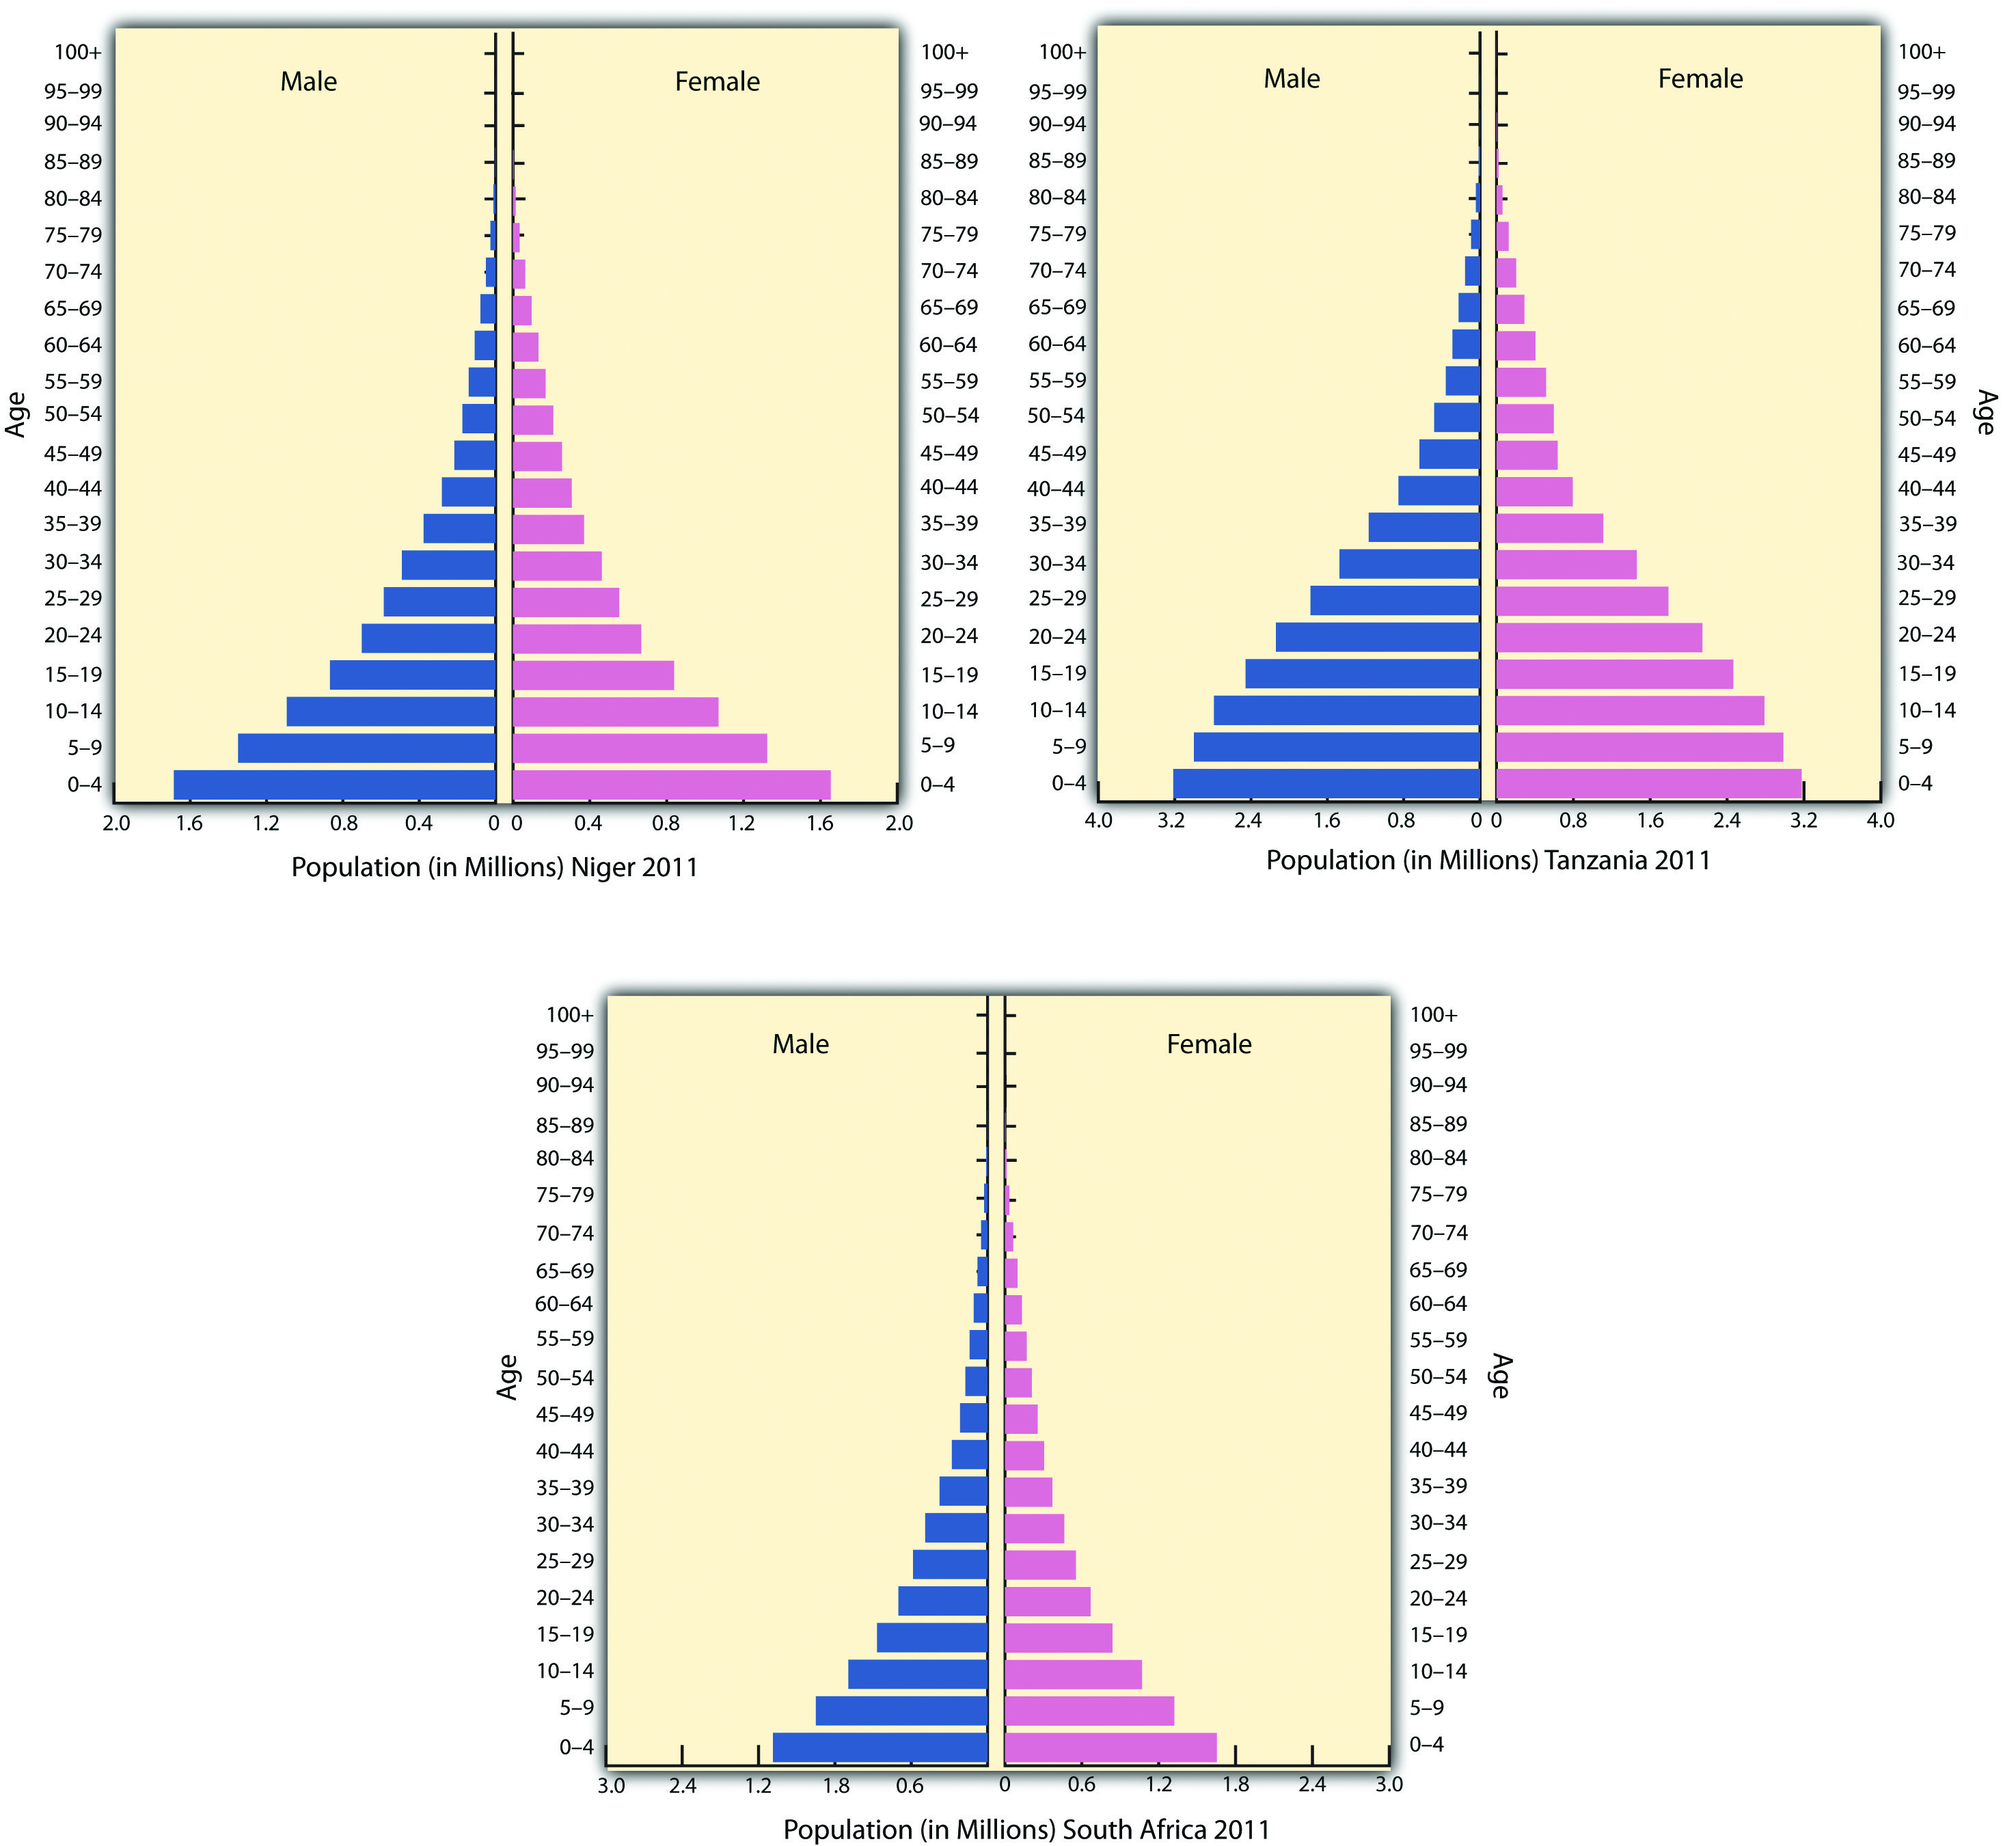
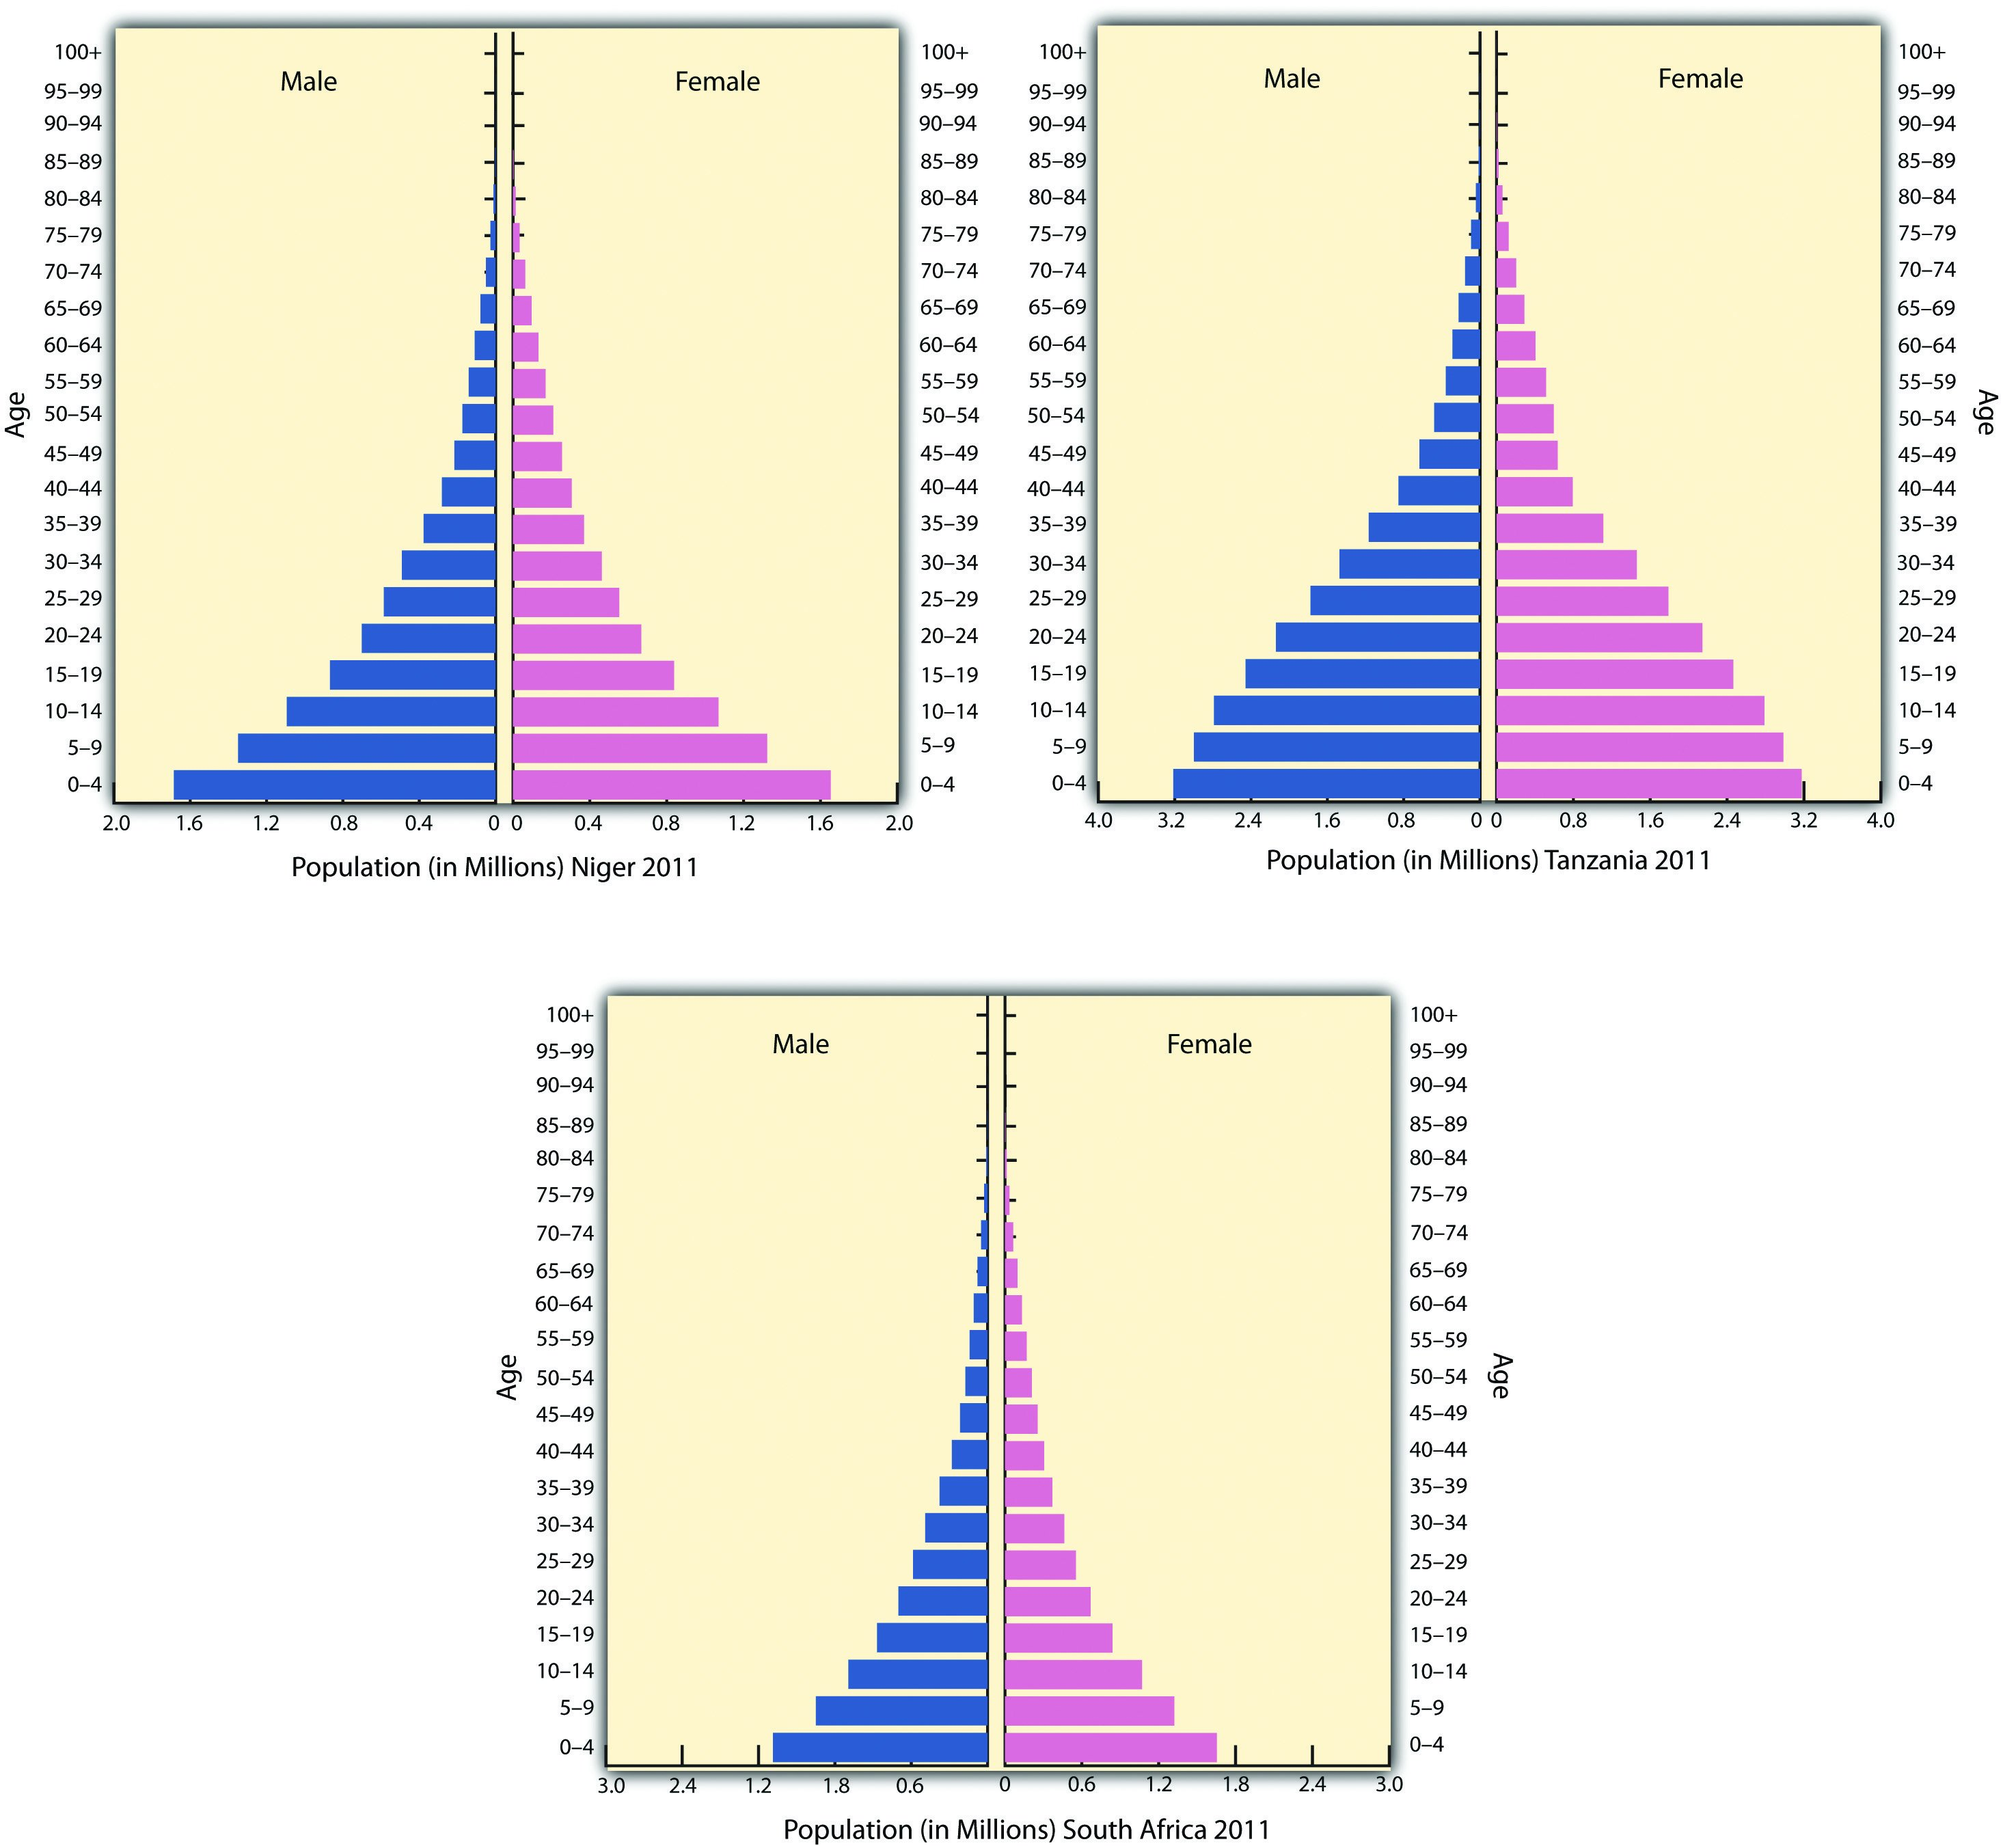
Optimize large image file: images/05f32379582976158275e47839fc09c9.jpg

Changed region(s): [[0.1863, 0.3732, 0.2484, 0.4043]]

diff --git a/agents.md b/agents.md
@@ -690,3 +690,18 @@ The textbook is now **100% P1 complete** with all chapters having consistent ped
 **Testing Note**: Before releasing any changes to production, recommend running through quiz flow on each chapter to verify quiz-data.json loads correctly with the fixed main.js.
 
 ---
+### 2026-02-07: Performance Optimization - Image Compression ✅
+
+**Agent**: Jules (Performance Engineer)
+
+**Status Report**:
+I have optimized a large image asset identified as a performance bottleneck.
+
+**Completed Actions**:
+1.  **Image Optimization**: Compressed `images/05f32379582976158275e47839fc09c9.jpg`.
+    - Original: 1.70 MB, CMYK, 2931x2701.
+    - Optimized: 0.40 MB, RGB, 2931x2701, Quality 85.
+    - **Reduction**: 76% file size reduction.
+2.  **Verification**: Verified file format and size. Ran existing tests (`tests/test-quiz-engine.js`) to ensure no regressions.
+
+**Note**: The image usage could not be explicitly traced in the codebase (likely a content-addressed asset or referenced dynamically), but the optimization is safe as it preserves dimensions and visual quality while significantly reducing load time.
